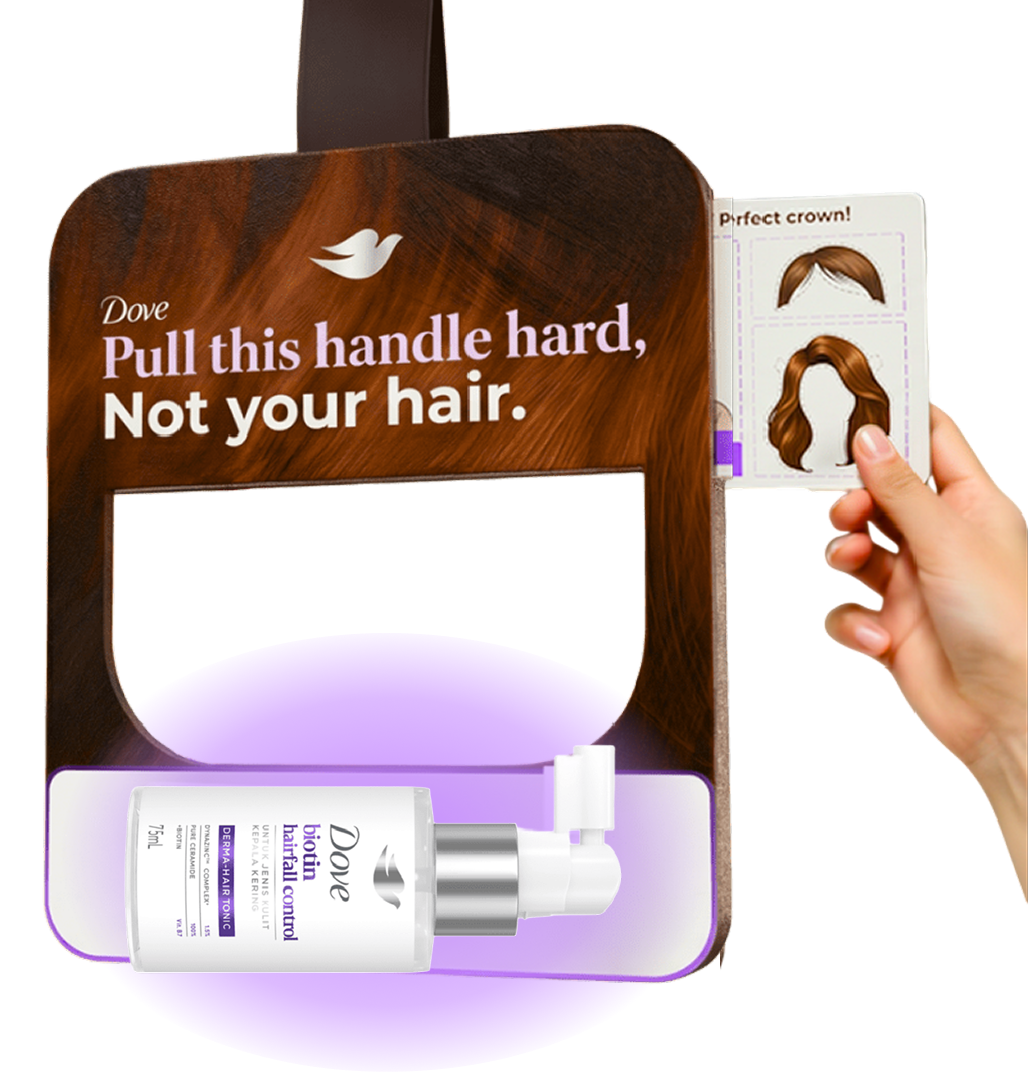
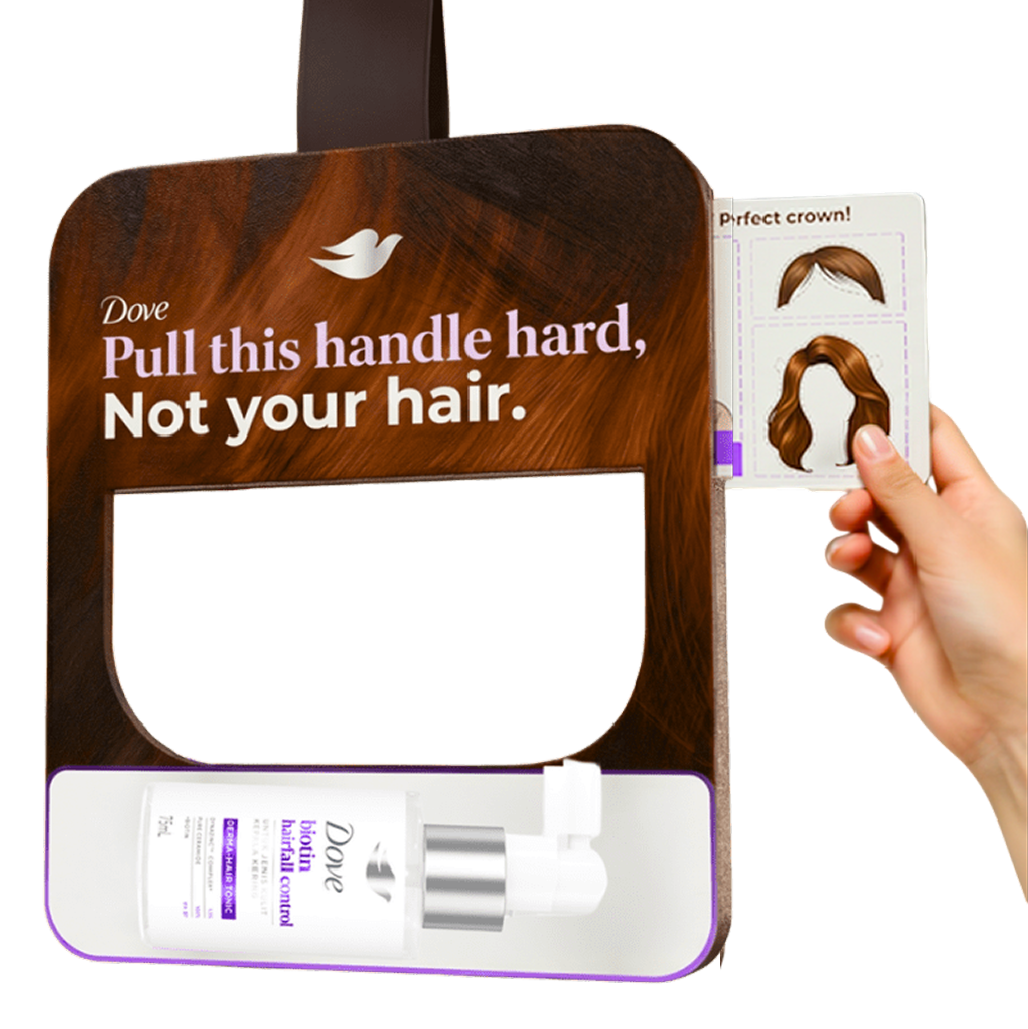
feat: Dove Object floating on Section 5 Panel 2

diff --git a/src/App.jsx b/src/App.jsx
@@ -46,6 +46,7 @@ import f5FeatStar2 from './assets/images/Frame_5/2. Bintang Feature.png';
 import f5FeatStar3 from './assets/images/Frame_5/3. Bintang Feature.png';
 import f5FeatStar4 from './assets/images/Frame_5/4. Bintang Feature.png';
 import f5Reveal from './assets/images/Frame_5/Reveal Object.png';
+import f5Dove from './assets/images/Frame_5/Dove Object.png';
 
 function App() {
   const customPictures = [pic1, pic2, pic3, pic4, pic5, pic6];
@@ -76,26 +77,36 @@ function App() {
     const revealElements = document.querySelectorAll('.reveal');
     revealElements.forEach(el => observer.observe(el));
 
-    // Special observer for the reveal object so it can appear/disappear continuously
+    // Special observer for the reveal objects so they can appear/disappear continuously
     const toggleObserver = new IntersectionObserver((entries) => {
       entries.forEach(entry => {
-        const revealWrapper = document.querySelector('.p-reveal-wrapper');
-        if (revealWrapper) {
-          if (entry.isIntersecting) {
-            revealWrapper.classList.add('active');
-          } else {
-            revealWrapper.classList.remove('active');
+        if (entry.target.classList.contains('trigger-reveal')) {
+          const revealWrapper = document.querySelector('.p-reveal-wrapper');
+          if (revealWrapper) {
+            if (entry.isIntersecting) revealWrapper.classList.add('active');
+            else revealWrapper.classList.remove('active');
+          }
+        }
+        if (entry.target.classList.contains('trigger-dove')) {
+          const doveWrapper = document.querySelector('.p-dove-wrapper');
+          if (doveWrapper) {
+            if (entry.isIntersecting) doveWrapper.classList.add('active');
+            else doveWrapper.classList.remove('active');
           }
         }
       });
-    }, { threshold: 0.3 }); // Trigger when 30% of Panel 3 is visible
+    }, { threshold: 0.3 }); // Trigger when 30% of Panel is visible
 
-    const triggerEl = document.querySelector('.trigger-reveal');
-    if (triggerEl) toggleObserver.observe(triggerEl);
+    const triggerReveal = document.querySelector('.trigger-reveal');
+    if (triggerReveal) toggleObserver.observe(triggerReveal);
+    
+    const triggerDove = document.querySelector('.trigger-dove');
+    if (triggerDove) toggleObserver.observe(triggerDove);
 
     return () => {
       revealElements.forEach(el => observer.unobserve(el));
-      if (triggerEl) toggleObserver.unobserve(triggerEl);
+      if (triggerReveal) toggleObserver.unobserve(triggerReveal);
+      if (triggerDove) toggleObserver.unobserve(triggerDove);
     };
   }, []);
 
@@ -209,7 +220,14 @@ function App() {
               <div className="product-fixed-wrapper reveal">
                 <img src={f5Product} alt="Product Display" className="product-obj" />
                 
-                {/* Reveal Object lives in the sticky container so it doesn't move vertically */}
+                {/* Dove Object lives in the sticky container, triggered by Panel 2 */}
+                <div className="p-dove-wrapper reveal-zoom">
+                  <div className="p-dove-float">
+                    <img src={f5Dove} alt="Dove Object" className="p-dove-obj" />
+                  </div>
+                </div>
+
+                {/* Reveal Object lives in the sticky container, triggered by Panel 3 */}
                 <div className="p-reveal-wrapper reveal-zoom">
                   <div className="p-reveal-float">
                     <img src={f5Reveal} alt="Reveal Object" className="p-reveal-obj" />
@@ -234,7 +252,7 @@ function App() {
             </div>
 
             {/* Panel 2 */}
-            <div className="product-text-panel">
+            <div className="product-text-panel trigger-dove">
               <div className="product-text-wrapper reveal">
                 <img src={f5Text2} alt="Feature 1" className="product-text-obj" />
                 <img src={f5FeatStar1} alt="Star" className="p-fstar p-fstar-1" />

diff --git a/src/App.css b/src/App.css
@@ -660,35 +660,44 @@
   position: absolute;
   right: 5%; /* Position over the hand on the right edge */
   top: 13%; /* Vertically align it over the hand */
-  width: clamp(575px, 20vw, 1000px); /* Adjust size to fit over the hand correctly */
+  width: clamp(700px, 20vw, 1000px); /* Adjust size to fit over the hand correctly */
   z-index: 10;
   pointer-events: auto; /* Explicitly allow pointer events here */
 }
 
+.p-dove-wrapper {
+  position: absolute;
+  right: 25%; /* Move it to the left */
+  top: 50%; /* Move it to the bottom of the Product Object */
+  width: clamp(700px, 20vw, 1000px); /* Keep the same size as reveal object */
+  z-index: 10;
+  pointer-events: auto;
+}
+
 /* Custom fade in & zoom in effect just for the reveal object */
-.p-reveal-wrapper.reveal-zoom {
+.p-reveal-wrapper.reveal-zoom, .p-dove-wrapper.reveal-zoom {
   transform: scale(0.5);
   opacity: 0;
   transition: all 0.5s cubic-bezier(0.175, 0.885, 0.32, 1.275); /* Bouncy zoom */
 }
 
-.p-reveal-wrapper.reveal-zoom.active {
+.p-reveal-wrapper.reveal-zoom.active, .p-dove-wrapper.reveal-zoom.active {
   transform: scale(1);
   opacity: 1;
 }
 
-.p-reveal-float {
+.p-reveal-float, .p-dove-float {
   width: 100%;
   animation: floatMainObj 6s ease-in-out infinite;
 }
 
-.p-reveal-obj {
+.p-reveal-obj, .p-dove-obj {
   width: 100%;
   height: auto;
   transition: transform 0.3s ease; /* Smooth hover transition */
   cursor: pointer;
 }
 
-.p-reveal-obj:hover {
+.p-reveal-obj:hover, .p-dove-obj:hover {
   transform: scale(1.1); /* Zoom in on hover */
 }
